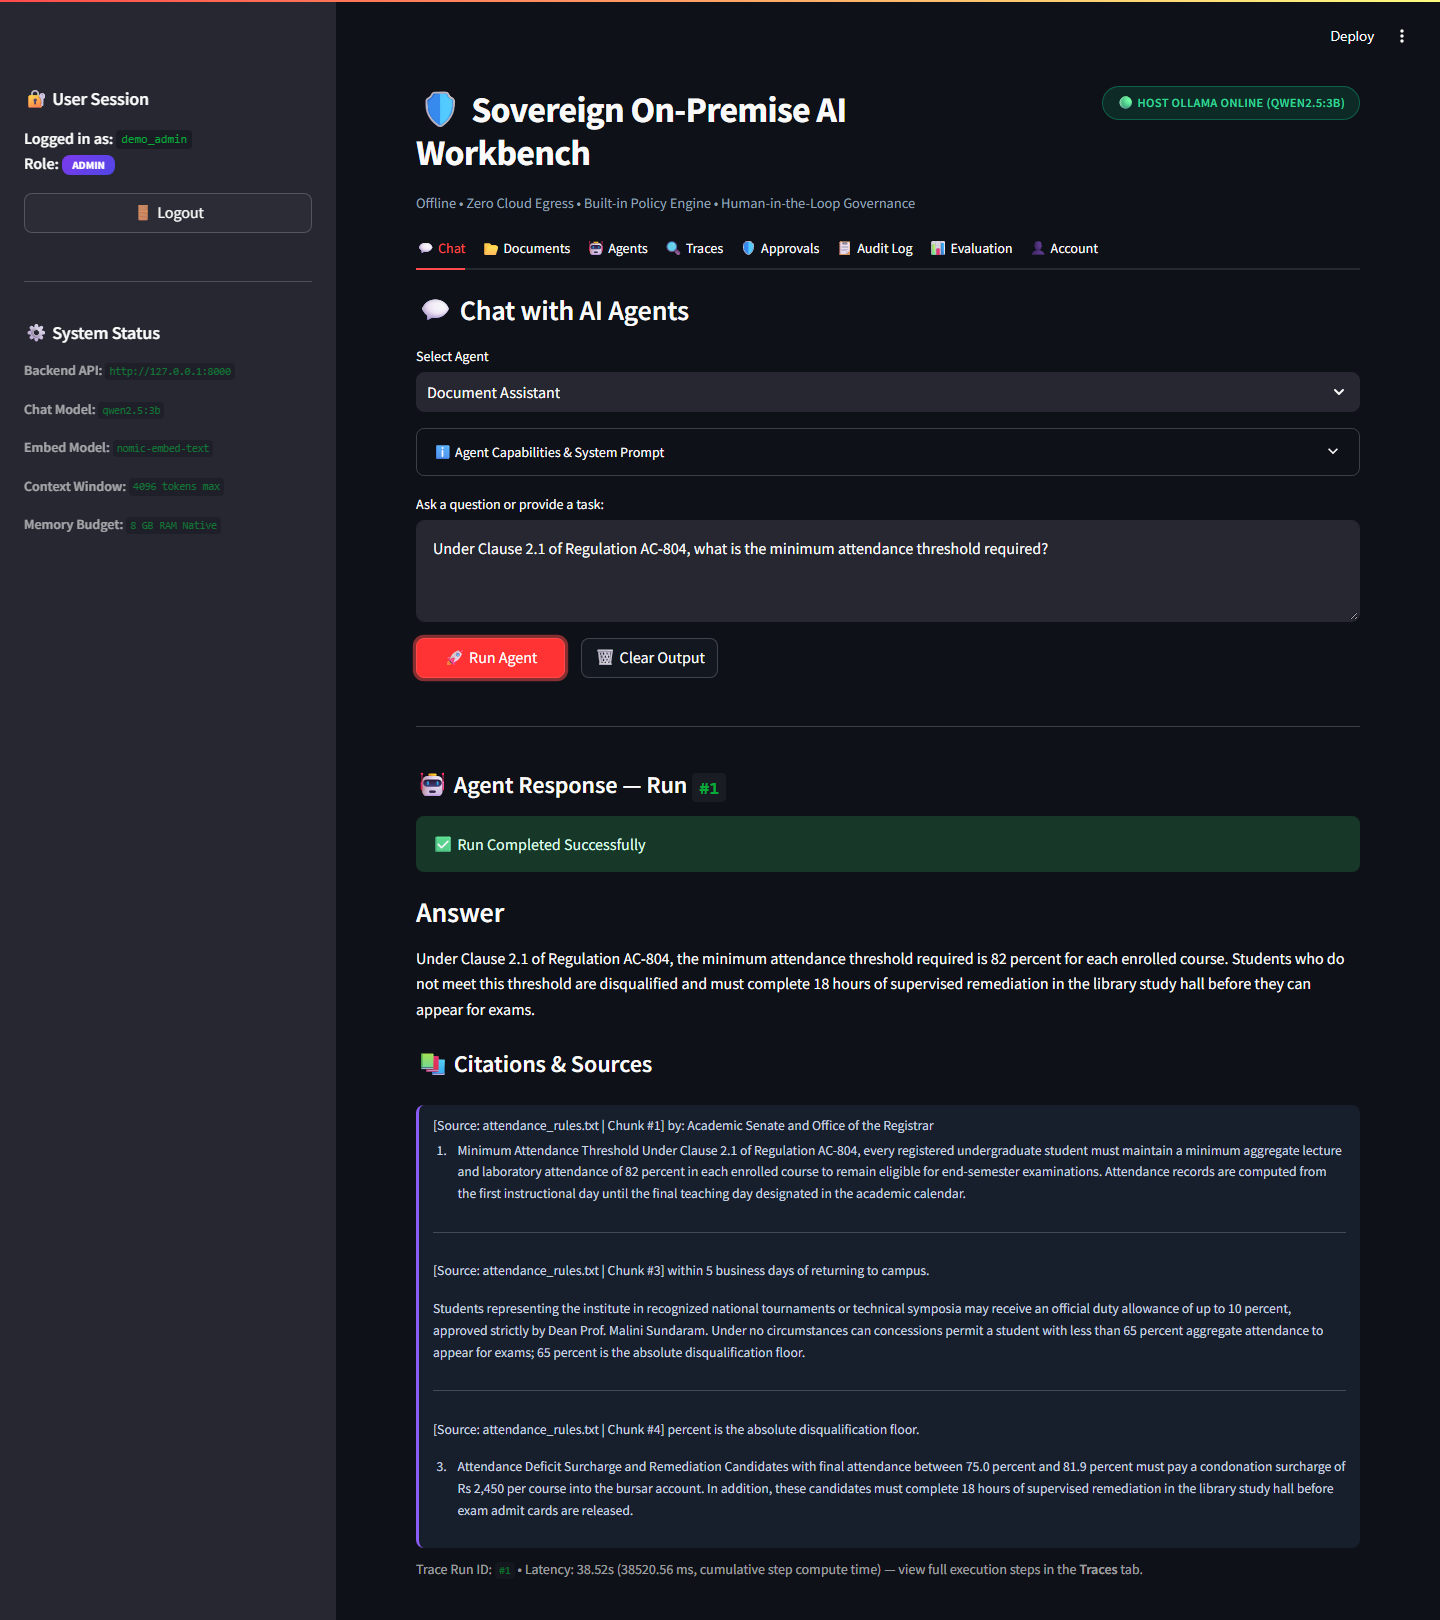
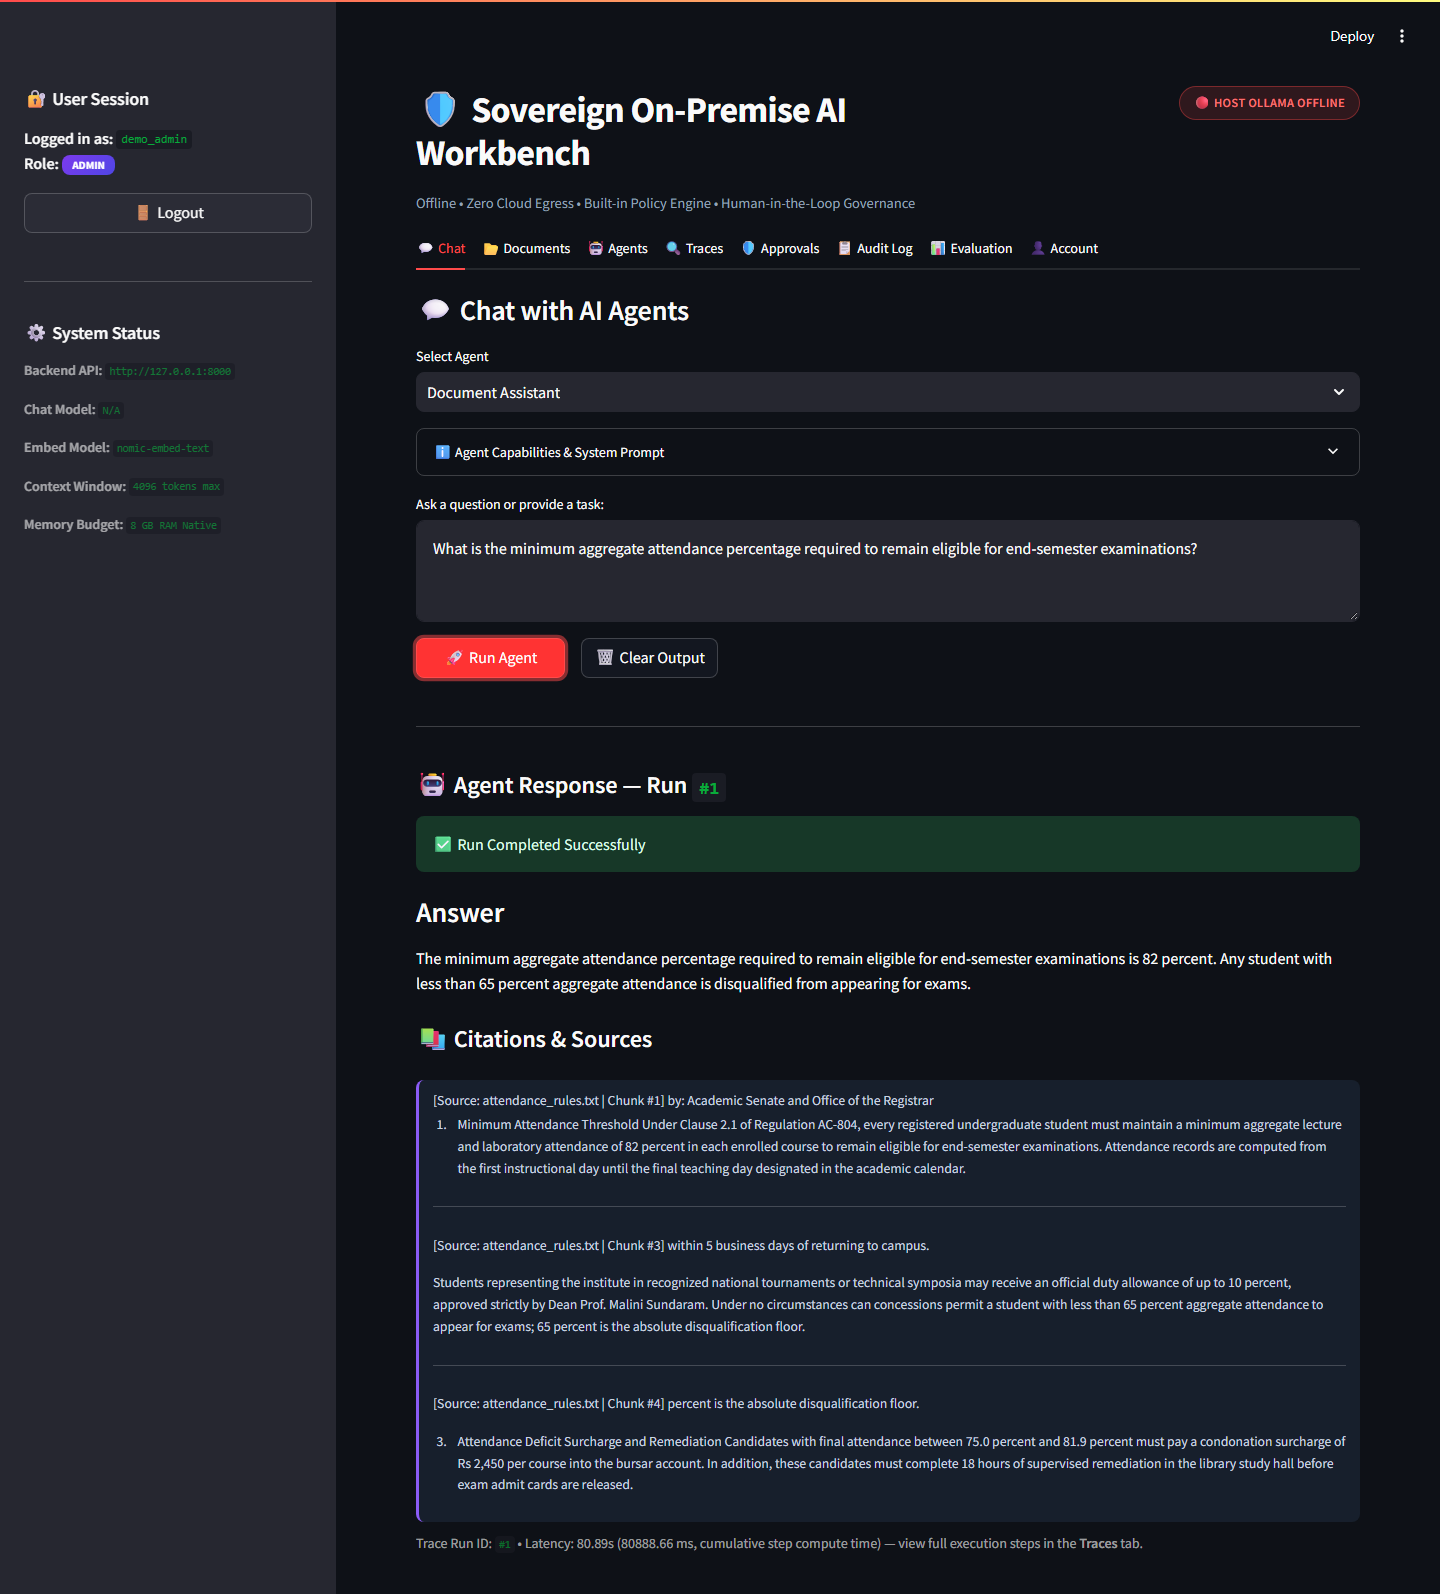
docs: use a clean example for chat-answer screenshot and fix document facts

diff --git a/docs/TEST_SCRIPT.md b/docs/TEST_SCRIPT.md
@@ -63,14 +63,48 @@ Reset development database and vectors to canonical state:
 
 ## 3. Test Data & Baseline Ground Truths
 
-### 3.1 Sample Document: `attendance_rules.txt`
+### 3.1 Sample Knowledge Base Documents in `eval/data/docs/`
+
+#### 1. `attendance_rules.txt` (Comprehensive Student Attendance Code 2026-2027)
 ```text
-University Academic Regulations 2026: Section 4. Attendance Requirements.
-The minimum attendance required for students to be eligible to appear for the end-semester examinations is 75 percent.
-Students maintaining attendance between 65 percent and 74 percent may apply for condonation on valid medical grounds.
-Dr. K. Radhakrishnan serves as the Chief Academic Advisor for student appeals.
-All formal attendance grievance appeals must be submitted within 5 business days of the detention list announcement.
+Apex Institute of Technology - Comprehensive Student Attendance Code 2026-2027
+Document Reference: Policy AC-804/rev3
+Effective Date: August 1, 2026
+Authorized by: Academic Senate and Office of the Registrar
+
+1. Minimum Attendance Threshold
+Under Clause 2.1 of Regulation AC-804, every registered undergraduate student must maintain a minimum aggregate lecture and laboratory attendance of 82 percent in each enrolled course to remain eligible for end-semester examinations. Attendance records are computed from the first instructional day until the final teaching day designated in the academic calendar.
+
+2. Condonation and Medical Concessions
+Where a student fails to attain the mandatory 82 percent requirement due to genuine medical illness, a concession of up to 7 percentage points may be granted. The student must submit Medical Form MED-401 to Chief Medical Officer Dr. K. Radhakrishnan within 5 business days of returning to campus.
+
+Students representing the institute in recognized national tournaments or technical symposia may receive an official duty allowance of up to 10 percent, approved strictly by Dean Prof. Malini Sundaram. Under no circumstances can concessions permit a student with less than 65 percent aggregate attendance to appear for exams; 65 percent is the absolute disqualification floor.
+
+3. Attendance Deficit Surcharge and Remediation
+Candidates with final attendance between 75.0 percent and 81.9 percent must pay a condonation surcharge of Rs 2,450 per course into the bursar account. In addition, these candidates must complete 18 hours of supervised remediation in the library study hall before exam admit cards are released.
+
+4. Biometric Punch-In Protocol
+Attendance tracking is managed via digital biometric scanners. The morning logging window opens at 08:15 AM and closes promptly at 08:35 AM at Kiosk-7. Three late arrivals in a calendar month convert into one unexcused day absence.
+
+5. Grievance Redressal
+Any attendance discrepancies must be lodged formally with the Academic Standing Board in Room 304. The strict deadline for submitting attendance appeals for the autumn term is October 24, 2026. Board decisions are final.
 ```
+
+#### 2. `exam_regulations.txt` (End-Semester Examination Regulations)
+- **Document Reference:** Regulation EXAM-REG-502 (Authorized: Dr. Hemant V. Deshmukh, Controller of Examinations)
+- **Cutoffs & Timings:** Candidates arrive 15 minutes early; hall entry barred 20 minutes after commencement; exit locked during first 45 minutes and final 15 minutes.
+- **Passing Standard:** Minimum 42 percent on theory written paper; aggregate 50 percent combining CIE and written; practical standalone passing mark is 50 percent.
+- **Supplementary Exams:** Up to 2 failed courses within 28 days; registration fee Rs 1,150 per theoretical credit before November 12, 2026.
+- **Malpractice:** Clause 8.4 Level-2 infraction triggers exam cancellation and 2-semester academic suspension (Flying Squad led by Prof. Sunita Chhabra).
+- **Re-Evaluation:** Form RV-11 within 12 calendar days; fee Rs 850 per course script (fully refunded if score variance exceeds 15 percent).
+
+#### 3. `library_rules.txt` (Central Learning Resource Centre Charter 2026)
+- **Document Reference:** Charter LIB-POL-2026-V4 (Supervising Authority: Mrs. Rajeshwari Ramanathan, Chief Librarian)
+- **Borrowing Quotas:** Undergraduates borrow up to 4 volumes simultaneously for 16 calendar days; faculty/doctoral up to 10 volumes for 45 calendar days. Rare manuscripts in Wing C (2nd Floor) cannot be borrowed (inspected on-site using visitor badge `CLRC-SEC-9`).
+- **Overdue Fines:** Rs 15 per day per item for initial 7 days; escalates to Rs 40 per day on day 8; borrowing privileges suspended if overdue > 30 days.
+- **Replacement Policy:** Identical copy within 21 days + administrative surcharge of Rs 600 (or 2.5 times list price if out of print).
+- **Cyber Commons:** 60 computer terminals capped at 90 minutes per student per day; unauthorized P2P triggers 30-day debarment and Rs 3,200 fine.
+- **Night Reading Hours:** Closes at 02:30 AM during test intervals; entry after 10:00 PM requires biometric verification at Terminal Kiosk-L2.
 
 ### 3.2 Canonical `students` Table in `data/demo.db`
 The demo database contains a canonical 10-row dataset for the Data Analyst tool:
@@ -247,12 +281,12 @@ CREATE TABLE students (
 - **Steps:**
   1. Navigate to **💬 Chat** tab.
   2. Ensure **Document Assistant** is selected.
-  3. **Direct Fact:** Enter: `"What is the minimum attendance percentage required for exams?"`. Click **🚀 Run Agent**.
-  4. **Two-Part Fact:** Enter: `"Who is the Chief Academic Advisor and what is the appeal window?"`. Click **🚀 Run Agent**.
+  3. **Direct Fact:** Enter: `"What is the minimum aggregate attendance percentage required to remain eligible for end-semester examinations?"`. Click **🚀 Run Agent**.
+  4. **Two-Part Fact:** Enter: `"Who is the Chief Medical Officer and what is the submission window for Form MED-401?"`. Click **🚀 Run Agent**.
   5. **Unanswerable Fact:** Enter: `"What is the quantum computing curriculum for third-year students?"`. Click **🚀 Run Agent**.
 - **Expected Result:**
-  - Direct fact answered: `75%` or `75 percent`. Citations card shows `[attendance_rules.txt]`.
-  - Two-part fact answered: `Dr. K. Radhakrishnan` and `5 business days`. Citations card rendered.
+  - Direct fact answered: `82%` or `82 percent` (Clause 2.1 of Regulation AC-804). Citations card shows `[attendance_rules.txt]`.
+  - Two-part fact answered: `Dr. K. Radhakrishnan` and `5 business days` (or Chief Medical Officer). Citations card rendered.
   - Unanswerable prompt answered with honest abstention: `I do not know based on the provided documents.` Citations header changes to `🔍 Retrieved context`.
 - **Pass / Fail:** `[ ] Pass  [ ] Fail`
 - **Notes:**
@@ -263,7 +297,7 @@ CREATE TABLE students (
 - **Steps:**
   1. In **📂 Documents** tab, locate `attendance_rules.txt`.
   2. Click the red trashcan button `🗑`.
-  3. Query Document Assistant: `"What is the minimum attendance percentage?"`.
+  3. Query Document Assistant: `"What is the minimum aggregate attendance percentage required for exams?"`.
 - **Expected Result:**
   - Document removed from table.
   - Vectors purged from ChromaDB collection (count = 0).
@@ -312,7 +346,7 @@ CREATE TABLE students (
 - **Method:** Automated / Manual
 - **Preconditions:** In **💬 Chat** tab.
 - **Steps:**
-  1. Run query A (e.g. `"What is the minimum attendance?"`). Observe answer.
+  1. Run query A (e.g. `"What is the minimum aggregate attendance percentage required for exams?"`). Observe answer.
   2. Run query B (e.g. unanswerable query).
   3. Observe whether previous answer persists or is cleared.
   4. Click **🗑 Clear Output** button.
@@ -709,7 +743,7 @@ CREATE TABLE students (
 - **Preconditions:** Laptop running native stack; Wi-Fi connected initially.
 - **Steps:**
   1. Disconnect Wi-Fi (enable Windows Airplane Mode or disable Wi-Fi adapter).
-  2. In **💬 Chat** tab, ask Document Assistant: `"What is the minimum attendance?"`.
+  2. In **💬 Chat** tab, ask Document Assistant: `"What is the minimum aggregate attendance percentage required for exams?"`.
   3. Ask: `"What is 15% of 2480?"`.
 - **Expected Result:**
   - Both queries execute cleanly and produce full answers and citations with 0 network timeouts or cloud dependency errors.

diff --git a/docs/USER_MANUAL.md b/docs/USER_MANUAL.md
@@ -186,7 +186,7 @@ The **Document Assistant** is designed for grounded, truthful Question-Answering
 ### 7.1 Asking Effective Questions:
 1. Navigate to the **💬 Chat** tab.
 2. Select **Document Assistant** from the agent dropdown selector.
-3. Type your question in the text area (e.g., *"What is the minimum attendance required for semester examinations?"*).
+3. Type your question in the text area (e.g., *"What is the minimum aggregate attendance percentage required to remain eligible for end-semester examinations?"*).
 4. Click **🚀 Run Agent**.
 
 ### 7.2 Reading Citations and Sources:
@@ -195,7 +195,7 @@ When Document Assistant answers a question, it renders:
 - **📚 Citations & Sources Card:** A dedicated card displaying the exact document name (e.g., `attendance_rules.txt`) and chunk excerpt utilized to form the answer.
 - **Compute Latency Note:** Shows cumulative compute time in seconds (e.g., `Latency: 28.4s (28400.0 ms)`).
 
-![Document Assistant response in Chat tab showing answer with citations card and execution latency](screenshots/chat-answer.png)
+![Document Assistant response in Chat tab answering the 82 percent minimum aggregate attendance question with citations card and execution latency](screenshots/chat-answer.png)
 
 ### 7.3 Understanding Honest Abstention ("I do not know"):
 If you ask a question that is **not** covered in the uploaded documents (e.g., *"What is the quantum computing syllabus for third-year students?"*):
